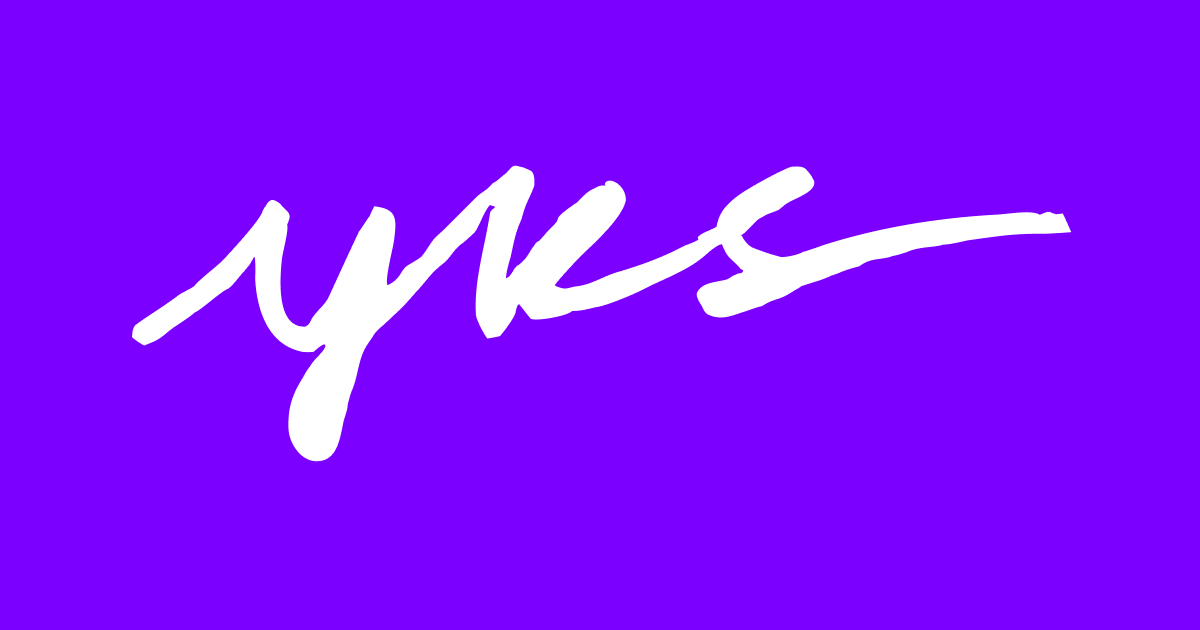
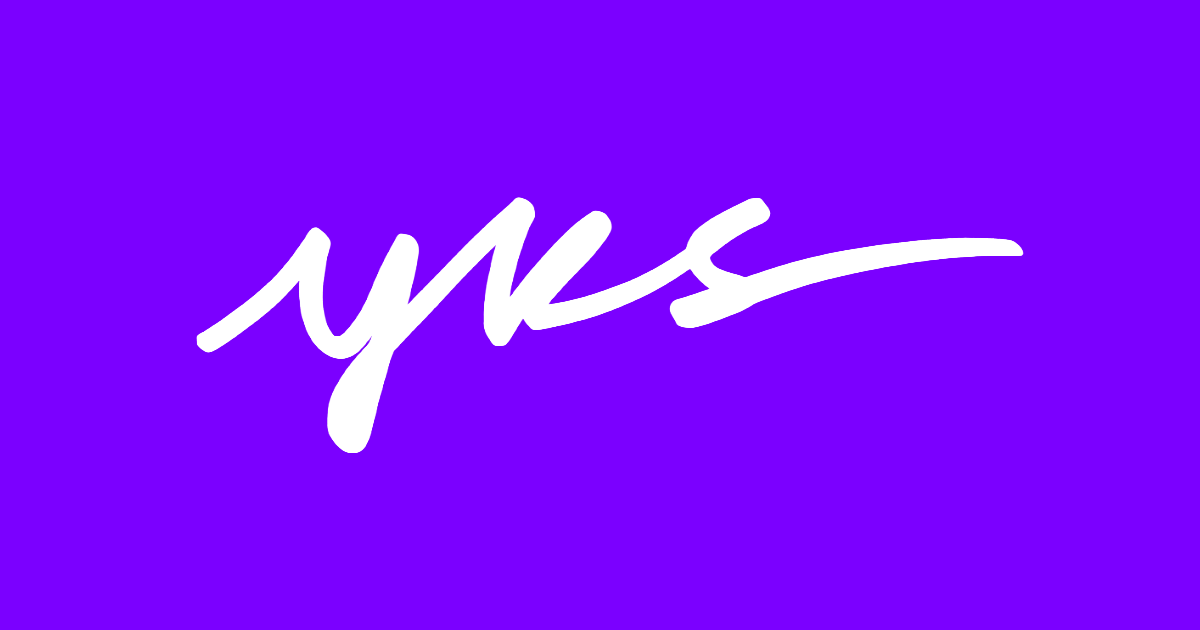
Signature updates

Changed region(s): [[0.0925, 0.2413, 0.8942, 0.754]]

diff --git a/app/layout.tsx b/app/layout.tsx
@@ -11,8 +11,8 @@ export const metadata: Metadata = {
     template: "%s | YKS",
   },
   icons: {
-    icon: [{ url: "/yks-purple.png?v=2", type: "image/png" }],
-    shortcut: ["/yks-purple.png?v=2"],
+    icon: [{ url: "/yks-full.png?v=3", type: "image/png" }],
+    shortcut: ["/yks-full.png?v=3"],
   },
   description:
     "YKS is the portfolio site for Yad Kram Studio, showcasing design and creative work across brand, campaign, film, and digital.",

diff --git a/app/page.tsx b/app/page.tsx
@@ -1163,7 +1163,7 @@ export default function Home() {
         <div className="px-5 py-4 md:px-10 md:py-6">
           <div className="max-w-[1400px]">
             <img
-              src="/yks-purple.png"
+              src="/yks-full.png"
               alt="YKS"
               className="h-auto w-[184px] md:w-[245px]"
               loading="eager"

diff --git a/app/not-found.tsx b/app/not-found.tsx
@@ -6,7 +6,7 @@ export default function NotFound() {
       <div className="mx-auto max-w-[1400px]">
         <div className="mb-10 md:mb-14">
           <img
-            src="/yks-purple.png"
+            src="/yks-full.png"
             alt="YKS"
             className="h-auto w-[184px] md:w-[245px]"
           />
